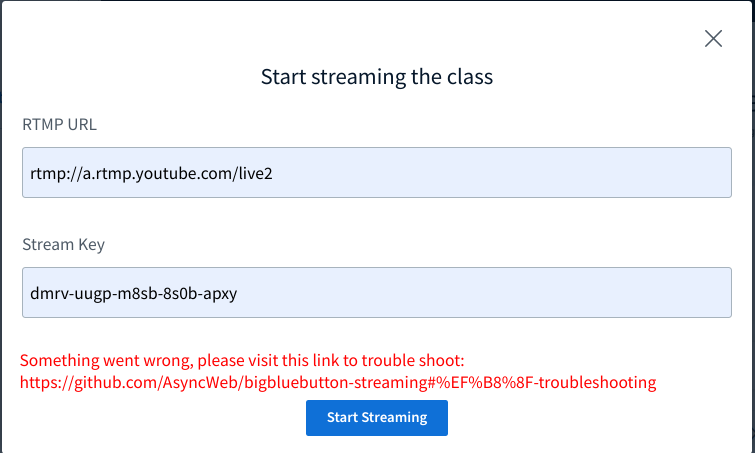
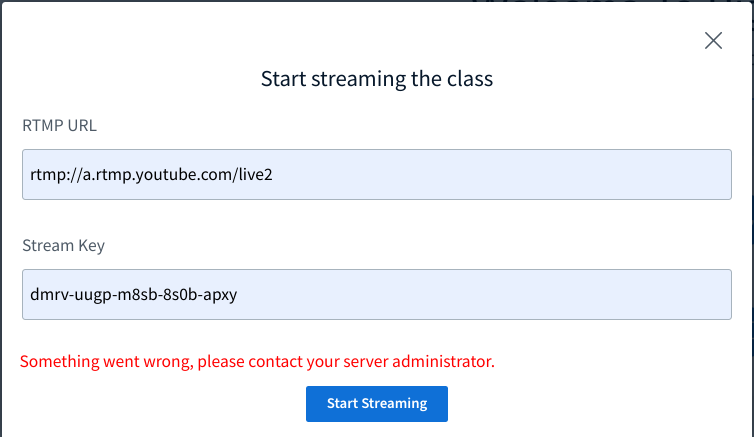
new:added more info in troubleshoot

diff --git a/src/2.6.10/imports/ui/components/actions-bar/actions-dropdown/streaming-modal/service.js b/src/2.6.10/imports/ui/components/actions-bar/actions-dropdown/streaming-modal/service.js
@@ -28,7 +28,7 @@ const startStreaming = async (streamUrl, streamKey) => {
     if (error.response && error.response.status === 500) {
       throw (error.response.data.error);
     } else if (error.response && error.response.status === 502) {
-      throw ("Something went wrong, please visit this link to trouble shoot: https://github.com/AsyncWeb/bigbluebutton-streaming#%EF%B8%8F-troubleshooting");
+      throw ("Something went wrong, please contact your server administrator.");
     }
     else {
       console.error('inside Error', error.response.status);
@@ -48,7 +48,7 @@ const stopStreaming = async () => {
     if (error.response && error.response.status === 500) {
       throw (error.response.data.error);
     } else if (error.response && error.response.status === 502) {
-      throw ("Something went wrong, please visit this link to trouble shoot: https://github.com/AsyncWeb/bigbluebutton-streaming#%EF%B8%8F-troubleshooting");
+      throw ("Something went wrong, please contact your server administrator.");
     }
     else {
       console.error('inside Error', error);

diff --git a/src/2.7.0-beta.2/imports/ui/components/actions-bar/actions-dropdown/streaming-modal/service.js b/src/2.7.0-beta.2/imports/ui/components/actions-bar/actions-dropdown/streaming-modal/service.js
@@ -28,7 +28,7 @@ const startStreaming = async (streamUrl, streamKey) => {
     if (error.response && error.response.status === 500) {
       throw (error.response.data.error);
     } else if (error.response && error.response.status === 502) {
-      throw ("Something went wrong, please visit this link to trouble shoot: https://github.com/AsyncWeb/bigbluebutton-streaming#%EF%B8%8F-troubleshooting");
+      throw ("Something went wrong, please contact your server administrator.");
     }
     else {
       console.error('inside Error', error.response.status);
@@ -48,7 +48,7 @@ const stopStreaming = async () => {
     if (error.response && error.response.status === 500) {
       throw (error.response.data.error);
     } else if (error.response && error.response.status === 502) {
-      throw ("Something went wrong, please visit this link to trouble shoot: https://github.com/AsyncWeb/bigbluebutton-streaming#%EF%B8%8F-troubleshooting");
+      throw ("Something went wrong, please contact your server administrator.");
     }
     else {
       console.error('inside Error', error);

diff --git a/readme.md b/readme.md
@@ -45,9 +45,10 @@ The requirement to install this software is BigBlueButton should be installed.
 
 **Minimum environment requirements**
 
-- BigBlueButton versions ['2.6.10' '2.7.0-beta.2'].
+- The software is compatible with BigBlueButton versions ['2.6.10' '2.7.0-beta.2']. Please ensure one of these versions is pre-installed.
 - Docker must be installed on the system to manage containerization and deployment of     BigBlueButton.
 - A properly configured and functioning TURN server is necessary for real-time communication and media relay.
+- You should have a user account on your  system configured to execute sudo commands without the requirement to enter a password each time. This is crucial for some installation processes that require administrator-level permissions.
 
 <br/><br/>
 
@@ -148,45 +149,107 @@ bash uninstall.sh
 <br />
 
 <div align="center">
-  <img alt="bbb-streaming-error" width="100%" src="static/streaming-error-1.png"> 
+  <img alt="bbb-streaming-error" width="90%" src="static/streaming-error-1.png"> 
 </div>
 <br/>
 
-- 🚨 When you encounter the error above, most likely the BigBlueButton-streaming backend (`bbb-streaming`) is not running. Please follow the steps below to troubleshoot:
+1. 🚨 When you encounter the error above, most likely the BigBlueButton-streaming backend (`bbb-streaming`) is not running. Please follow the steps below to troubleshoot:
 
-    1. 🔍 Execute the command below to check whether `pm2` is present and is running the node application on your BigBlueButton server
+    - 🔍 Execute the command below to check whether `pm2` is present and is running the node application on your BigBlueButton server
 
-    ```bash
-    pm2 list
-    ```
+          ```bash
+          pm2 list
+          ```
     
     <div align="center">
-      <img alt="bbb-streaming-error" width="100%" src="static/streaming-error-2.png"> 
+      <img alt="bbb-streaming-error" width="90%" src="static/streaming-error-2.png"> 
     </div>
      <br/>
 
-    2. ⚠ If you find bbb-streaming listed above with status not as `online`, you would need to restart `bbb-streaming` by using the following command:
+    - ⚠ If you find bbb-streaming listed above with status not as `online`, you would need to restart `bbb-streaming` by using the following command:
 
-    ```bash
-    pm2 restart bbb-streaming
-    ```
+          ```bash
+          pm2 restart bbb-streaming
+          ```
 
-    3. ✅ Now, you would be seeing `bbb-streaming` status as online. 
+    - ✅ Now, you would be seeing `bbb-streaming` status as online. 
 
     <div align="center">
-      <img alt="bbb-streaming-error" width="100%" src="static/streaming-error-3.png"> 
+      <img alt="bbb-streaming-error" width="90%" src="static/streaming-error-3.png"> 
     </div>
-
-    4. ⚠ If you still face issues in running streaming, please email us at support@higheredlab.com and we would be happy to help you. 
 
     <br/>
 
-- 📝 If you encounter other errors, try looking for error logs by running the following command:
 
-```bash
-pm2 logs bbb-streaming
-```
-and share the logs with us by creating an issue on this repository 📮. Please ensure to include relevant screenshots and a detailed description of the problem for better assistance. 
+2. 📝 If you encounter other errors, try looking for error logs by running the following command:
+
+        ```bash
+        pm2 logs bbb-streaming
+        ```
+<br/>
+
+  - 📜 If you see error log as below, it means the error message you are seeing typically occurs when trying to use sudo in a script or automated process where no terminal is available to provide the password interactively.
+
+    <div align="center">
+      <img alt="bbb-streaming-error" width="90%" src="static/streaming-error-4.png"> 
+    </div>
+    <br/>
+
+    - 🚨 To fix this, a user to run sudo without needing to enter a password, you can modify the sudoers file.Here are the steps:
+
+        - Open a terminal.
+        - Type `sudo visudo`. This will open the sudoers file in the system's default text editor. The visudo command checks the syntax of the sudoers file to help prevent you from accidentally locking yourself out of the system.
+
+        - Scroll down to the section of the file that looks like this:
+
+        ```bash
+        # User privilege specification
+        root    ALL=(ALL:ALL) ALL
+        ```
+
+        - Underneath the root user, add the following line, replacing `username` with the username for which you want to allow passwordless sudo commands:
+
+        ```bash
+        username ALL=(ALL:ALL) NOPASSWD: ALL
+        ```
+
+        - Press `Ctrl+X` to exit the editor, then `Y` to save changes, and `Enter` to confirm.
+
+        - Now Restart the `bbb-streaming` service by running the following command:
+
+        ```bash
+        pm2 restart bbb-streaming
+        ```
+
+        <br />
+
+        Now, the user you added will be able to use `sudo` without being asked for a password. 
+
+<br/>
+
+> 📝If you find diffrent logs, share with us by creating an issue on this repository 📮. Please ensure to include relevant screenshots and a detailed description of the problem for better assistance.
+ 
+<br /> <br />
+
+3. 🚨 When you run `bash uninstall.sh`, and if encounter below error:
+    ```
+    permission denied while trying to connect to the Docker daemon socket at unix:///var/run/docker.sock: Get "http://%2Fvar%2Frun%2Fdocker.sock/v1.24/containers/json?filters=%7B%22ancestor%22%3A%7B%22bbb-stream%3Av1.0%22%3Atrue%7D%7D": dial unix /var/run/docker.sock: connect: permission denied
+    ```
+    - 📝 The error message you're encountering is related to the Docker permissions. Your user does not have the required permissions to interact with the Docker daemon. To fix this:
+    
+    - **Add your user to the docker group:** This is the most straightforward solution. It allows your user to interact with the Docker daemon as if you were the root user. 
+
+        ```bash
+        sudo usermod -aG docker $USER
+        ```
+
+      And then **log out and log back in** so that your group membership is re-evaluated.
+
+    - Run again `bash uninstall.sh` and you should be good to go.
+
+<br />
+
+ >  ⚠ If you still face issues in running streaming, please email us at support@higheredlab.com and we would be happy to help you. 
 
 
 <br /><br />
